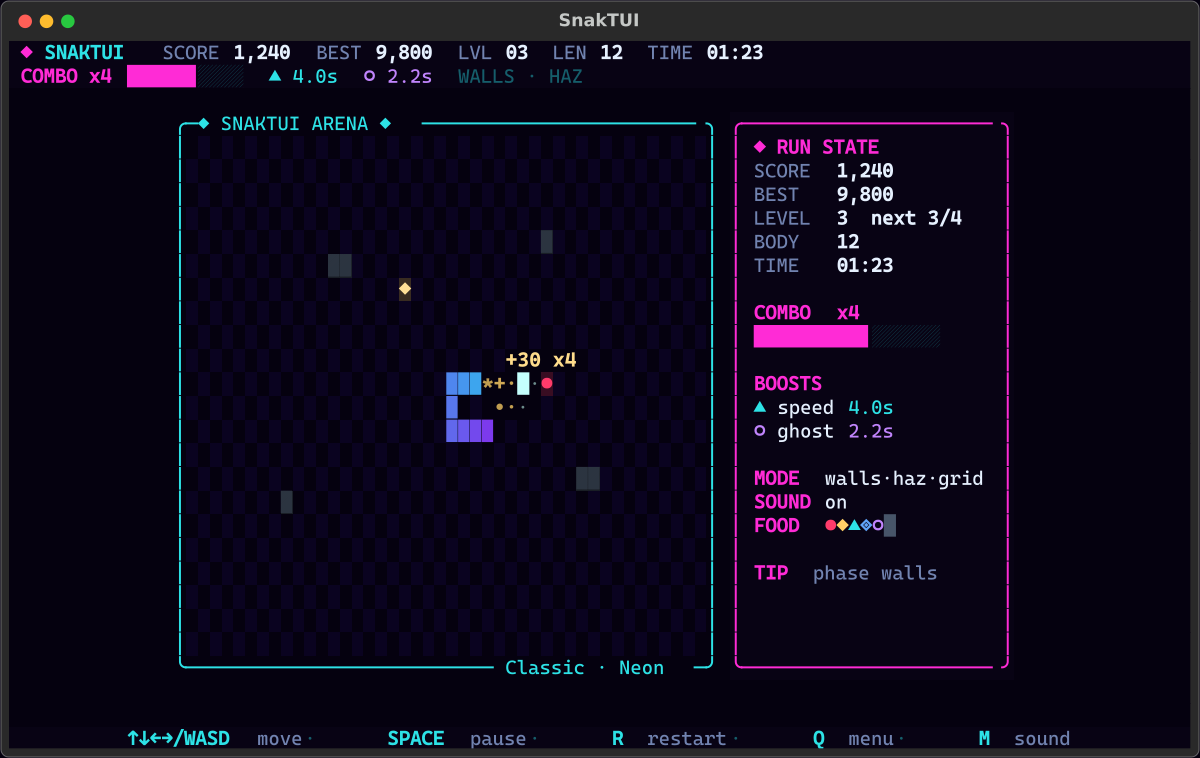
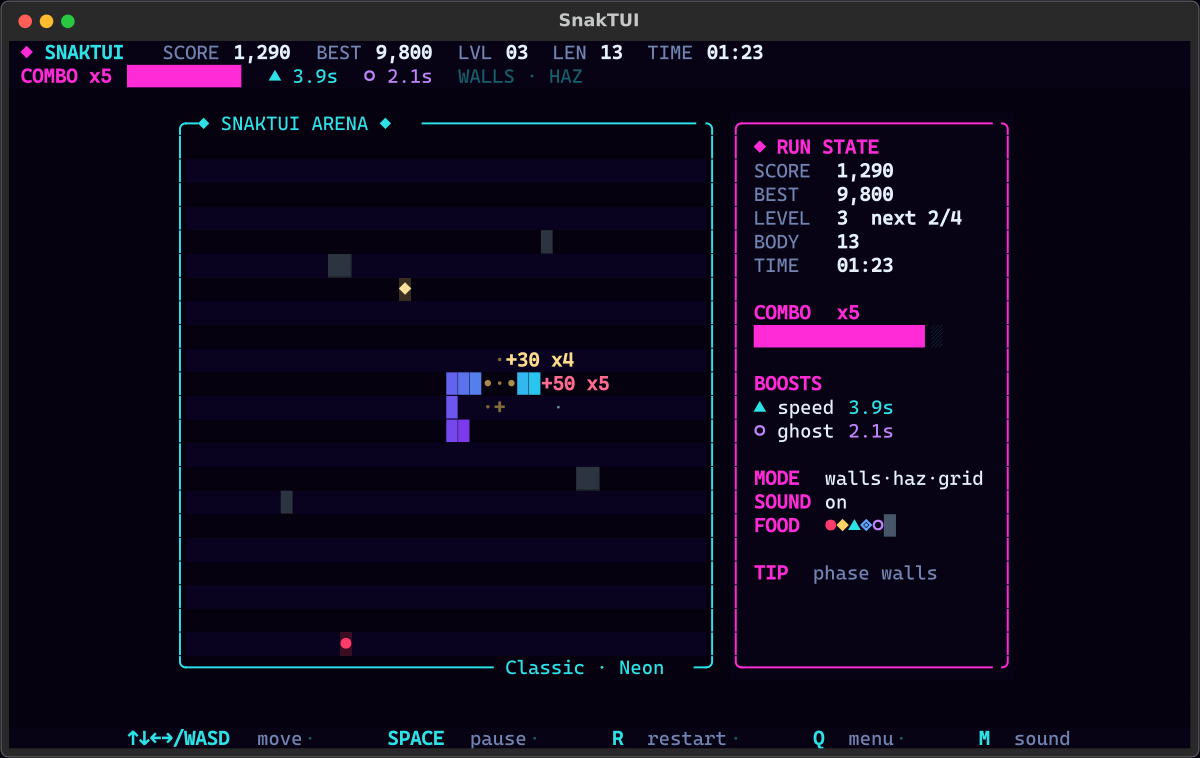
Optimize arena renderer and refresh screenshots

diff --git a/snaktui/board.py b/snaktui/board.py
@@ -11,7 +11,7 @@ from .game import Game
 from .models import FoodKind, Point
 from .theme import Palette, blend, darken
 
-EMPTY = (" ", "")
+EMPTY = (" ", "", None)
 SNAKE_CHAR = "█"
 HAZARD_CHAR = "▓"
 HALO_CHAR = "·"
@@ -46,24 +46,23 @@ class SnakeBoard(Widget):
         width, height = game.width, game.height
 
         flash = min(1.0, game.flash / 0.75)
-        grid: list[list[tuple[str, str]]] = []
-
+        row_bgs: list[str] = []
         for y in range(height):
-            row: list[tuple[str, str]] = []
-            for x in range(width):
-                background = (
-                    palette.bg_b if game.config.grid and (x + y) % 2 else palette.bg_a
-                )
-                if flash > 0:
-                    background = blend(background, palette.danger, flash * 0.28)
-                row.append((" ", f"on {background}"))
-            grid.append(row)
+            background = palette.bg_b if game.config.grid and y % 2 else palette.bg_a
+            if flash > 0:
+                background = blend(background, palette.danger, flash * 0.28)
+            row_bgs.append(background)
+
+        grid: list[list[tuple[str, str, str | None]]] = [
+            [EMPTY] * width for _ in range(height)
+        ]
 
         for obstacle in game.obstacles:
             if 0 <= obstacle.x < width and 0 <= obstacle.y < height:
                 grid[obstacle.y][obstacle.x] = (
                     HAZARD_CHAR,
-                    f"{palette.obstacle} on {darken(palette.obstacle, 0.65)}",
+                    palette.obstacle,
+                    darken(palette.obstacle, 0.65),
                 )
 
         snake = game.snake
@@ -74,16 +73,17 @@ class SnakeBoard(Widget):
                 continue
             color = palette.snake_gradient(index, length)
             if index == 0:
-                grid[point.y][point.x] = (SNAKE_CHAR, f"bold {color}")
+                grid[point.y][point.x] = (SNAKE_CHAR, f"bold {color}", None)
             else:
-                grid[point.y][point.x] = (SNAKE_CHAR, color)
+                grid[point.y][point.x] = (SNAKE_CHAR, color, None)
 
         if snake:
             head = snake[0]
+            halo = darken(palette.snake_head, 0.45)
             for dx, dy in ((0, -1), (1, 0), (0, 1), (-1, 0)):
                 x, y = head.x + dx, head.y + dy
                 if 0 <= x < width and 0 <= y < height and grid[y][x][0] == " ":
-                    grid[y][x] = (HALO_CHAR, darken(palette.snake_head, 0.45))
+                    grid[y][x] = (HALO_CHAR, halo, None)
 
         if game.food is not None:
             self._draw_food(grid, game.food.kind, game.food.pos, game.animation_time, 0.0)
@@ -102,7 +102,7 @@ class SnakeBoard(Widget):
                 continue
             ratio = max(0.0, particle.life / particle.max_life)
             color = blend(palette.bg_a, palette.role(particle.role), 0.35 + ratio * 0.65)
-            grid[y][x] = (particle.char, f"bold {color}")
+            grid[y][x] = (particle.char, f"bold {color}", None)
 
         for popup in game.popups:
             y = round(popup.y)
@@ -112,7 +112,7 @@ class SnakeBoard(Widget):
             for offset, char in enumerate(popup.text):
                 x = round(popup.x) + offset
                 if 0 <= x < width:
-                    grid[y][x] = (char, f"bold {color}")
+                    grid[y][x] = (char, f"bold {color}", None)
 
         if game.paused:
             self._draw_overlay(grid, width, height, "P A U S E D", "SPACE resume · Q quit")
@@ -126,10 +126,24 @@ class SnakeBoard(Widget):
             )
 
         result = Text()
-        for row_index, row in enumerate(grid):
-            for char, style in row:
-                result.append(char, style=style)
-            if row_index < height - 1:
+        for y, row in enumerate(grid):
+            row_bg = row_bgs[y]
+            run_chars: list[str] = []
+            run_fg: str | None = None
+            run_bg: str | None = None
+            for char, fg, bg in row:
+                cell_bg = bg if bg is not None else row_bg
+                if fg == run_fg and cell_bg == run_bg:
+                    run_chars.append(char)
+                    continue
+                if run_chars:
+                    result.append("".join(run_chars), style=_span_style(run_fg, run_bg))
+                run_chars = [char]
+                run_fg = fg
+                run_bg = cell_bg
+            if run_chars:
+                result.append("".join(run_chars), style=_span_style(run_fg, run_bg))
+            if y < height - 1:
                 result.append("\n")
         return result
 
@@ -138,7 +152,7 @@ class SnakeBoard(Widget):
     # ------------------------------------------------------------------
     def _draw_food(
         self,
-        grid: list[list[tuple[str, str]]],
+        grid: list[list[tuple[str, str, str | None]]],
         kind: FoodKind,
         point: Point,
         time: float,
@@ -157,11 +171,11 @@ class SnakeBoard(Widget):
             color = blend(color, palette.bg_a, 0.55)
 
         background = blend(palette.bg_a, palette.role(kind.value), 0.18 + pulse * 0.08)
-        grid[point.y][point.x] = (glyph, f"bold {color} on {background}")
+        grid[point.y][point.x] = (glyph, f"bold {color}", background)
 
     def _draw_overlay(
         self,
-        grid: list[list[tuple[str, str]]],
+        grid: list[list[tuple[str, str, str | None]]],
         width: int,
         height: int,
         title_text: str,
@@ -177,37 +191,40 @@ class SnakeBoard(Widget):
         for y in range(top, top + panel_height):
             for x in range(left, left + panel_width):
                 if 0 <= x < width and 0 <= y < height:
-                    grid[y][x] = (" ", f"on {background}")
+                    grid[y][x] = (" ", "", background)
 
-        border_style = f"bold {palette.golden} on {background}"
+        border_fg = f"bold {palette.golden}"
         top_edge = "╭" + "─" * (panel_width - 2) + "╮"
         bottom_edge = "╰" + "─" * (panel_width - 2) + "╯"
-        self._put_text(grid, left, top, top_edge, border_style)
-        self._put_text(grid, left, top + panel_height - 1, bottom_edge, border_style)
+        self._put_text(grid, left, top, top_edge, border_fg, background)
+        self._put_text(grid, left, top + panel_height - 1, bottom_edge, border_fg, background)
         for y in range(top + 1, top + panel_height - 1):
             if 0 <= left < width:
-                grid[y][left] = ("│", border_style)
+                grid[y][left] = ("│", border_fg, background)
             if 0 <= left + panel_width - 1 < width:
-                grid[y][left + panel_width - 1] = ("│", border_style)
+                grid[y][left + panel_width - 1] = ("│", border_fg, background)
 
         text_x = left + max(1, (panel_width - len(title_text)) // 2)
         hint_x = left + max(1, (panel_width - len(hint_text)) // 2)
-        self._put_text(
-            grid, text_x, top + 1, title_text, f"bold {palette.golden} on {background}"
-        )
-        self._put_text(
-            grid, hint_x, top + 3, hint_text, f"{palette.dim} on {background}"
-        )
+        self._put_text(grid, text_x, top + 1, title_text, border_fg, background)
+        self._put_text(grid, hint_x, top + 3, hint_text, palette.dim, background)
 
     @staticmethod
     def _put_text(
-        grid: list[list[tuple[str, str]]],
+        grid: list[list[tuple[str, str, str | None]]],
         x: int,
         y: int,
         text: str,
-        style: str,
+        fg: str,
+        bg: str,
     ) -> None:
         for offset, char in enumerate(text):
             column = x + offset
             if 0 <= column < len(grid[0]) and 0 <= y < len(grid):
-                grid[y][column] = (char, style)
+                grid[y][column] = (char, fg, bg)
+
+
+def _span_style(fg: str | None, bg: str | None) -> str:
+    if fg and bg:
+        return f"{fg} on {bg}"
+    return fg or (f"on {bg}" if bg else "")
